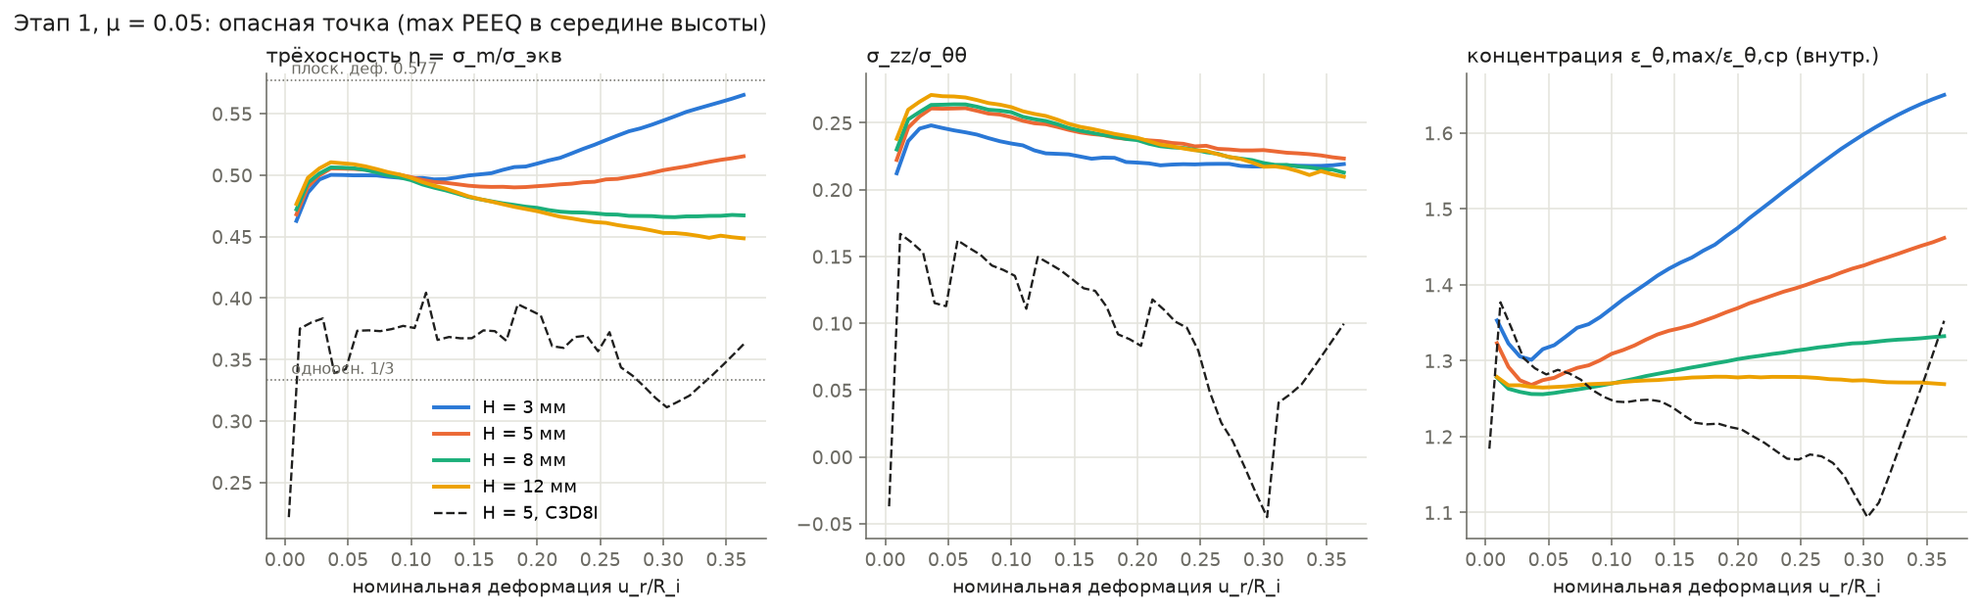
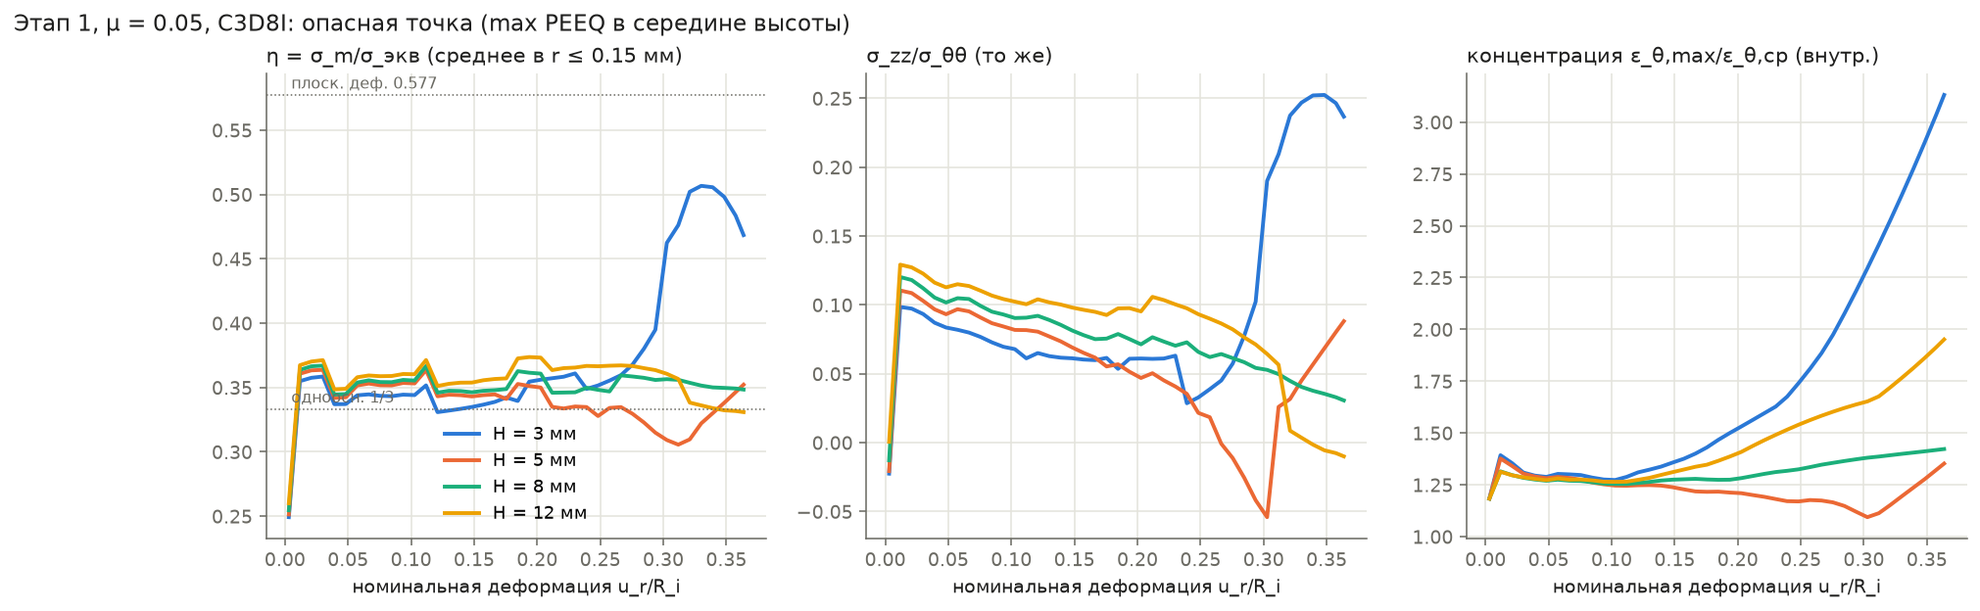
Этап 1: итоги по серии C3D8I — локализация, высота, трение, симметрия
До максимума силы (ε_ном около 0.09) H = 8 мм отличается от 12 мм не
больше чем на 3 % при всех мю; после него место локализации (середина
сегмента, зона у кромки, зазор) зависит от мю и H, сходимости по высоте
до 12 мм при мю <= 0.05 нет. Торцевой эффект — зона 1-2 мм. Трение по силе
не видно, но решает, где пойдёт шейка. Основные рисунки переведены на
C3D8I, добавлены stage1_localization.png и stage1_height.png.

Claude-Session: https://claude.ai/code/session_01W1VWBCerkHvUeBZsoP48xT

diff --git a/tools/compare_stage1.py b/tools/compare_stage1.py
@@ -10,11 +10,13 @@
                         (сплошные) и у торца (пунктир) при ε_ном = 0.10 и 0.20, μ = 0.05;
   stage1_hotspot.png  — опасная точка (max PEEQ в середине высоты): η, σ_zz/σ_θθ
                         и концентрация ε_max/ε_ср от ε_ном, μ = 0.05;
-  stage1_{profiles,hotspot}_C3D8I.png — то же для серии высот на C3D8I;
+  (три рисунка выше — по серии C3D8I; C3D4 с 6 тетраэдрами запирается);
+  stage1_localization.png — наибольшая ε_θ по всей внутренней поверхности
+                        от ε_ном: панели по μ, линии по H;
   stage1_height.png   — max по дуге ε_θ в каждом ряду z внутренней поверхности
                         (post/surfmap.json, tools/surfmap_stage1.py) по высоте;
   stage1_elements.png — H = 5, μ = 0.05 на C3D4, C3D8I и C3D20R (запирание);
-  stage1_tetmesh.png  — то же для сеток C3D4 (6 и 24 тетраэдра, шаг 0.1 и 0.05);
+  stage1_tetmesh.png  — то же для сеток C3D4 (6 и 24 тетраэдра на шестигранник);
 Таблица runs/stage1/summary.md — значения при ε_ном = 0.10 и 0.20 и
 отклонения от следующей по величине высоты (критерий 3 %).
 """
@@ -72,12 +74,12 @@ def style(ax):
     ax.tick_params(colors=MUTED)
 
 
-def fig_force(runs, out):
-    mus = sorted({r['mu'] for r in runs if r['elem'] == 'C3D4'})
+def fig_force(runs, out, elem='C3D8I'):
+    mus = sorted({r['mu'] for r in runs if r['elem'] == elem})
     fig, axs = plt.subplots(1, len(mus), figsize=(5.2 * len(mus), 4.4), sharey=True)
     axs = axs if len(mus) > 1 else [axs]
     for ax, mu in zip(axs, mus):
-        for r in sorted((r for r in runs if r['mu'] == mu and r['elem'] == 'C3D4'),
+        for r in sorted((r for r in runs if r['mu'] == mu and r['elem'] == elem),
                         key=lambda r: r['H']):
             x = [p['eps_nom'] for p in r['ts']]
             y = [p['Fz'] / r['H'] / 1000.0 for p in r['ts']]
@@ -87,7 +89,7 @@ def fig_force(runs, out):
         style(ax)
     axs[0].set_ylabel('сила на конусе / высота кольца, кН/мм', color=INK)
     axs[-1].legend(frameon=False, fontsize=9, loc='lower right')
-    fig.suptitle('Этап 1: сила на конусе F_z/H (без трения конус–сегмент)', fontsize=12,
+    fig.suptitle('Этап 1, %s: сила на конусе F_z/H (без трения конус–сегмент)' % elem, fontsize=12,
                  color=INK, x=0.01, ha='left')
     fig.savefig(out, dpi=140, bbox_inches='tight', facecolor='white')
 
@@ -235,6 +237,39 @@ def fig_height(runs, out, elem='C3D8I'):
     fig.tight_layout()
     fig.savefig(out, dpi=140, bbox_inches='tight', facecolor='white')
 
+def fig_localization(runs, out, elem='C3D8I'):
+    """Наибольшая ε_θ по всей внутренней поверхности от ε_ном: панели по μ, линии по H.
+
+    Пунктир — номинальная деформация ln(1 + ε_ном); вертикаль — максимум силы."""
+    have = [r for r in runs if r.get('surf') and r['elem'] == elem]
+    mus = sorted({r['mu'] for r in have})
+    if not mus:
+        return
+    fig, axs = plt.subplots(1, len(mus), figsize=(5.4 * len(mus), 4.6), sharey=True, squeeze=False)
+    for ax, mu in zip(axs[0], mus):
+        sel = sorted((r for r in have if r['mu'] == mu), key=lambda r: r['H'])
+        for r in sel:
+            fr = r['surf']['frames']
+            ax.plot([f['eps_nom'] for f in fr], [max(f['emax']) for f in fr],
+                    color=H_COL.get(r['H'], INK), lw=2, label='H = %g мм' % r['H'])
+        xx = [0.0, 0.364]
+        ax.plot(xx, [math.log(1 + x) for x in xx], color=MUTED, lw=1, ls='--')
+        if sel:
+            xf = sel[-1]['summ']['eps_nom_at_Fmax']
+            ax.axvline(xf, color=MUTED, lw=0.8, ls=':')
+            ax.text(xf + 0.004, 0.97, 'максимум силы', fontsize=8, color=MUTED, va='top',
+                    transform=ax.get_xaxis_transform())
+        ax.set_title('μ = %g' % mu, fontsize=11, color=INK, loc='left')
+        ax.set_xlabel('номинальная деформация u_r/R_i', color=INK)
+        style(ax)
+        ax.legend(frameon=False, fontsize=9, loc='center left')
+    axs[0][0].set_ylabel('max ε_θ по внутренней поверхности', color=INK)
+    fig.suptitle('Этап 1, %s: локализация — наибольшая окружная деформация '
+                 '(пунктир — равномерная раздача)' % elem, fontsize=12, color=INK, x=0.01, ha='left')
+    fig.tight_layout()
+    fig.savefig(out, dpi=140, bbox_inches='tight', facecolor='white')
+
+
 def table(runs, out):
     keys = [('epsmax_IN_Z0', 'ε_θ,max сер.'), ('epsmax_IN_ZTOP', 'ε_θ,max торец'),
             ('hs_z0_eta_avg', 'η'), ('hs_z0_szz_stt_avg', 'σzz/σθθ'), ('tmin_Z0', 't_min/t0'),
@@ -286,15 +321,13 @@ def main():
     print('runs:', ', '.join(r['name'] for r in runs))
     os.makedirs(a.figs, exist_ok=True)
     fig_force(runs, os.path.join(a.figs, 'stage1_force.png'))
-    fig_profiles(runs, os.path.join(a.figs, 'stage1_profiles.png'))
-    fig_hotspot(runs, os.path.join(a.figs, 'stage1_hotspot.png'))
-    if sum(r['elem'] == 'C3D8I' for r in runs) > 1:
-        fig_profiles(runs, os.path.join(a.figs, 'stage1_profiles_C3D8I.png'), elem='C3D8I')
-        fig_hotspot(runs, os.path.join(a.figs, 'stage1_hotspot_C3D8I.png'), elem='C3D8I')
+    fig_profiles(runs, os.path.join(a.figs, 'stage1_profiles.png'), elem='C3D8I')
+    fig_hotspot(runs, os.path.join(a.figs, 'stage1_hotspot.png'), elem='C3D8I')
+    fig_localization(runs, os.path.join(a.figs, 'stage1_localization.png'))
     fig_height(runs, os.path.join(a.figs, 'stage1_height.png'))
     fig_elements(runs, os.path.join(a.figs, 'stage1_elements.png'))
     fig_elements(runs, os.path.join(a.figs, 'stage1_tetmesh.png'),
-                 elems=('C3D4', 'C3D4-x24', 'C3D4-h0.05', 'C3D20R'),
+                 elems=('C3D4', 'C3D4-x24', 'C3D20R'),
                  title='сетки C3D4 против эталона C3D20R')
     tpath = a.table or os.path.join(a.runs, 'summary.md')
     table(runs, tpath)

diff --git a/notes/stage1_results.md b/notes/stage1_results.md
@@ -53,14 +53,118 @@ H = 5 мм, μ = 0.05:
   (2D, μ = 0): максимум деформации и минимум толщины при φ ≈ 15–16°
   от середины сегмента.
 
-## 2. Где деформация наибольшая
+## 2. Где деформация наибольшая и как она локализуется (C3D8I)
 
-(дописывается по серии C3D8I)
+Рисунки `figs/stage1_profiles.png`, `figs/stage1_localization.png`,
+`figs/stage1_height.png`.
+
+**До максимума силы.** Максимум силы на конусе — при ε_ном = 0.091–0.094
+(0.080–0.087 у низких колец при μ = 0.2), почти не зависит от H и μ. До него
+деформация распределена: наибольшая ε_θ на внутренней поверхности при
+φ ≈ 19–20°, то есть под сегментом в 0.15–0.25 мм от его кромки (кромка —
+21.46°), наибольшее утонение при φ ≈ 15°. Исключение — μ = 0 и H ≤ 5 мм:
+там деформация по дуге почти равномерна.
+
+**После максимума силы** деформация локализуется в одном из трёх мест,
+и какое из них «победит», зависит от μ, H и расстояния от торца:
+
+| место | φ | когда побеждает |
+|---|---|---|
+| середина сегмента | 0 | μ = 0 при H ≤ 5 мм (с ε_ном ≈ 0.15–0.20); у торцов высоких колец при μ ≤ 0.05 после ε_ном ≈ 0.25 |
+| под сегментом у кромки | 17–19° | μ = 0.05 при H = 5–8 мм; середина высоты при H = 12 мм |
+| над зазором | 22° | μ = 0.2; H = 3 мм при μ = 0.05 |
+
+Наибольшая ε_θ на внутренней поверхности при ε_ном = 0.30 (значение, φ,
+расстояние от торца):
+
+| μ | H = 3 | H = 5 | H = 8 | H = 12 |
+|---|---|---|---|---|
+| 0 | 0.70, 0°, сер. | 0.51, 0°, сер. | 0.36, 17°, торец | 0.47, 0°, 1.1 мм |
+| 0.05 | 0.59, 22°, сер. | 0.35, 17°, торец | 0.36, 18°, сер. | 0.45, 0°, 0.9 мм |
+| 0.2 | 1.14, 22°, сер. | 0.76, 22°, сер. | 0.54, 19°, сер. | 0.54, 19°, сер. |
+
+Почему так (качественно): при μ = 0 окружная сила одна и та же по всей дуге,
+а под сегментом к ней добавляется контактное давление, поэтому шейка идёт
+там. Трение снижает окружную силу к середине сегмента, и вперёд выходит
+зона у кромки, где кольцо изгибается через край сегмента. Изгиб у кромки
+в середине высоты высокого кольца идёт в условиях, близких к плоской
+деформации (σ_zz/σ_θθ = 0.06–0.10 против ≈ 0 у торца), и локализуется
+быстрее, чем у торца и в низком кольце.
+
+**Свободный торец.** У самого торца (последние 0.2–0.3 мм) ε_θ выше, чем
+в 1–2 мм от него, на 6–16 % при μ = 0.05 (C3D20R: 6–9 %) и на 15–25 %
+при μ = 0. Провал — в 0.8–1.3 мм от торца при μ = 0.05 и в 1.3–2.4 мм
+при μ = 0. Это и есть собственно торцевой краевой эффект; его ширина
+≈ 1–2 мм не зависит от H. В опытах [R2008] очаг разрушения — на торце.
 
 ## 3. Высота кольца
 
-(дописывается по серии C3D8I)
+Критерий (задан до расчёта): величины в середине высоты при H и при
+следующей высоте различаются меньше чем на 3 %. Отличие ε_θ,max
+в середине высоты (и η в опасной точке), C3D8I:
+
+| μ | H | ε_ном 0.05 | 0.10 | 0.15 | 0.20 |
+|---|---|---|---|---|---|
+| 0 | 5 → 8 | −5.5 % (η +0.4) | −7.8 % (−19.8) | +2.7 % (−11.1) | +22.0 % (+2.0) |
+| 0 | 8 → 12 | −1.8 % (−0.4) | −3.0 % (−0.7) | −7.9 % (−1.7) | −16.5 % (−4.5) |
+| 0.05 | 5 → 8 | +1.0 % (−0.7) | −0.5 % (−0.6) | −3.0 % (−0.9) | −5.4 % (−2.9) |
+| 0.05 | 8 → 12 | −0.3 % (−1.2) | −0.8 % (−1.3) | −2.9 % (−2.2) | −8.7 % (−3.3) |
+| 0.2 | 5 → 8 | +9.5 % (−2.7) | +10.5 % (−1.9) | +15.6 % (−0.5) | +17.2 % (+0.6) |
+| 0.2 | 8 → 12 | +0.5 % (−2.6) | +1.0 % (−2.4) | +1.8 % (−1.0) | +1.9 % (−4.4) |
+
+- **До максимума силы (ε_ном ≤ 0.10) H = 8 мм удовлетворяет критерию при
+  всех μ** (наибольшее отличие от H = 12 — 3.0 % при μ = 0). H = 5 мм — нет
+  (−7.8 % при μ = 0, +10.5 % при μ = 0.2).
+- **После максимума силы при μ ≤ 0.05 сходимости по высоте до 12 мм нет**:
+  при ε_ном = 0.20 отличие 8 → 12 мм — 9–17 %. Причина — разные места
+  локализации (п. 2): в середине высоты кольца 12 мм шейка у кромки
+  сегмента развивается быстрее. При μ = 0.2 локализация над зазором
+  с самого начала, и 8 и 12 мм совпадают до ε_ном = 0.20.
+- Проверка, выходит ли картина после максимума силы на постоянную при ещё
+  бо́льшей высоте: H = 16 и 20 мм, μ = 0 и 0.05 (считается).
 
 ## 4. Трение
 
-(дописывается по серии C3D8I)
+- Сила на конусе от трения почти не зависит: F_z/H при ε_ном = 0.10 —
+  413 Н/мм (μ = 0), 417 (0.05), 422–435 (0.2). Трение по силе
+  не определить.
+- Трение решает, где и когда пойдёт локализация (п. 2), и меняет
+  трёхосность в опасной точке: η при ε_ном = 0.10 — 0.27–0.34 (μ = 0),
+  0.35–0.36 (0.05), 0.39–0.41 (0.2).
+- При μ = 0.2 деформация над зазором уже при ε_ном = 0.10 в 1.7–2 раза
+  больше номинальной; такое испытание меряет не материал, а трение.
+- **Вывод для испытания: смазка сегмент–кольцо обязательна, а μ надо
+  контролировать.** По силе этого не сделать; можно по распределению
+  деформации или толщины кольца по дуге после испытания (сетка рисок,
+  DIC на наружной поверхности, срез и замер толщины): отношение
+  деформации у кромки сегмента к деформации над серединой сегмента
+  однозначно связано с μ (п. 2).
+
+## 5. Плоскости симметрии
+
+До максимума силы сектор с симметрией по φ = 0, φ = 22.5° и z = 0 точен.
+После него он допускает только симметричные формы локализации: шейку
+ровно на плоскости φ = 0 (середина сегмента) и вздутие ровно в середине
+высоты, а наклонные полосы через эти плоскости (в опытах [R2008] срез
+идёт под 45°) запрещает. Поэтому результаты этапа 1 после
+ε_ном ≈ 0.10–0.15 — качественные: они показывают, где начнётся
+локализация, но не как она пойдёт дальше.
+
+## 6. Что из этого следует
+
+1. **Сетка этапа 2** — C3D4 x24 с шагом 0.1 мм (п. 1). C3D4 с 6 тетраэдрами
+   для разрушения непригоден: он не локализуется и ставит очаг не туда.
+2. **Расчётная область этапа 2** — без плоскостей симметрии через места
+   локализации: полная высота и как минимум один полный период сегмента
+   (φ от −22.5° до 22.5°, плоскости симметрии только в серединах зазоров).
+   Для H = 8 мм это ≈ 0.68 млн тетраэдров и ≈ 150 тыс. узлов — в 6 раз
+   больше сектора этапа 1; оценка времени — часы на расчёт без повреждения.
+3. **Ход оправки.** Опыты на Zry-2 (H ≈ 9–10 мм) рвались при ε_ном = 0.24–0.33;
+   для Э635 ход надо брать с запасом — до ε_ном ≈ 0.45 (u_r ≈ 2.5 мм).
+4. **Путь нагружения в опасной точке** (для ε_f(η), η — среднее в радиусе
+   0.15 мм): при μ = 0.05 η = 0.31–0.37 на всём пути до ε_ном = 0.35
+   (C3D8I, x24 и C3D20R согласны); рост до 0.45–0.53 — только в шейке над
+   серединой сегмента при μ = 0, H = 5 мм и над зазором при μ = 0.2.
+   Значит, для этапа 2 важнее всего точка ε_f(η ≈ 1/3) — одноосное
+   растяжение.
+5. **Высота** — окончательно после H = 16 и 20 мм (п. 3).

diff --git a/runs/stage1/summary.md b/runs/stage1/summary.md
@@ -1,8 +1,9 @@
 # Этап 1: сводка серии
 
 ε_ном = u_r/R_i. Величины «сер.» — внутренняя поверхность в середине высоты,
-«торец» — у свободного торца; η, σzz/σθθ — опасная точка (max PEEQ, z = 0).
-Δ — относительное отличие от следующей по величине высоты при том же μ.
+«торец» — у свободного торца; η, σzz/σθθ — опасная точка (max PEEQ, z = 0),
+средние по элементам в радиусе 0.15 мм.
+Δ — относительное отличие от следующей по величине высоты при том же μ и типе элемента.
 
 | расчёт | ε_ном при F_max | F_z,max, Н | итог |
 |---|---|---|---|
@@ -18,40 +19,79 @@
 | H5_mu0.2 | 0.091 | 2146 | rc=0, 349 с, до ε_ном = 0.364 |
 | H8_mu0.2 | 0.091 | 3459 | rc=0, 709 с, до ε_ном = 0.364 |
 | H12_mu0.2 | 0.091 | 5238 | rc=0, 1098 с, до ε_ном = 0.364 |
+| H5_mu0.05_C3D20R_s2s | 0.100 | 2085 | rc=0, 4549 с, до ε_ном = 0.364 |
+| H5_mu0.05_x24 | 0.094 | 2085 | rc=0, 2110 с, до ε_ном = 0.364 |
+| H3_mu0_C3D8I | 0.091 | 1237 | rc=0, 263 с, до ε_ном = 0.364 |
+| H5_mu0_C3D8I | 0.091 | 2064 | rc=0, 466 с, до ε_ном = 0.364 |
+| H8_mu0_C3D8I | 0.091 | 3303 | rc=0, 858 с, до ε_ном = 0.364 |
+| H12_mu0_C3D8I | 0.091 | 4955 | rc=0, 1450 с, до ε_ном = 0.364 |
+| H3_mu0.05_C3D8I | 0.094 | 1250 | rc=0, 263 с, до ε_ном = 0.364 |
 | H5_mu0.05_C3D8I | 0.094 | 2085 | rc=0, 547 с, до ε_ном = 0.364 |
+| H8_mu0.05_C3D8I | 0.094 | 3342 | rc=0, 1171 с, до ε_ном = 0.364 |
+| H12_mu0.05_C3D8I | 0.094 | 5026 | rc=0, 2050 с, до ε_ном = 0.364 |
+| H3_mu0.2_C3D8I | 0.080 | 1271 | rc=0, 296 с, до ε_ном = 0.364 |
+| H5_mu0.2_C3D8I | 0.087 | 2138 | rc=0, 608 с, до ε_ном = 0.364 |
+| H8_mu0.2_C3D8I | 0.094 | 3451 | rc=0, 1253 с, до ε_ном = 0.364 |
+| H12_mu0.2_C3D8I | 0.094 | 5227 | rc=0, 2082 с, до ε_ном = 0.364 |
 
 ## ε_ном = 0.10
 
 | расчёт | ε_θ,max сер. | ε_θ,max торец | η | σzz/σθθ | t_min/t0 | F_z, Н | Δ ε_max сер. | Δ η | Δ F_z/H |
 |---|---|---|---|---|---|---|---|---|---|
-| H3_mu0 | 0.1156 | 0.1227 | 0.4855 | 0.2249 | 0.9506 | 1243 | +2.5 % | -0.7 % | -0.0 % |
-| H5_mu0 | 0.1127 | 0.1243 | 0.4890 | 0.2411 | 0.9526 | 2072 | +1.0 % | +0.5 % | -0.0 % |
-| H8_mu0 | 0.1116 | 0.1265 | 0.4864 | 0.2398 | 0.9536 | 3315 | -0.7 % | +0.2 % | -0.0 % |
-| H12_mu0 | 0.1124 | 0.1249 | 0.4856 | 0.2369 | 0.9532 | 4973 |  |  |  |
-| H3_mu0.05 | 0.1274 | 0.1323 | 0.4976 | 0.2345 | 0.9436 | 1253 | +4.6 % | -0.2 % | -0.2 % |
-| H5_mu0.05 | 0.1218 | 0.1279 | 0.4983 | 0.2543 | 0.9466 | 2091 | +3.1 % | +0.5 % | -0.2 % |
-| H8_mu0.05 | 0.1181 | 0.1275 | 0.4959 | 0.2580 | 0.9483 | 3352 | -0.0 % | -0.4 % | -0.3 % |
-| H12_mu0.05 | 0.1182 | 0.1256 | 0.4977 | 0.2617 | 0.9477 | 5042 |  |  |  |
-| H3_mu0.2 | 0.1627 | 0.1625 | 0.5396 | 0.2663 | 0.9218 | 1278 | +7.8 % | +2.8 % | -0.6 % |
-| H5_mu0.2 | 0.1509 | 0.1392 | 0.5249 | 0.2907 | 0.9261 | 2145 | +6.5 % | +0.4 % | -0.8 % |
-| H8_mu0.2 | 0.1417 | 0.1308 | 0.5226 | 0.3069 | 0.9286 | 3458 | +0.6 % | -2.8 % | -1.0 % |
-| H12_mu0.2 | 0.1409 | 0.1274 | 0.5375 | 0.3325 | 0.9257 | 5236 |  |  |  |
-| H5_mu0.05_C3D8I | 0.1160 | 0.1248 | 0.3762 | 0.1369 | 0.9478 | 2085 | | | |
+| H3_mu0 | 0.1156 | 0.1227 | 0.4281 | 0.1666 | 0.9506 | 1243 | +2.5 % | -3.1 % | -0.0 % |
+| H5_mu0 | 0.1127 | 0.1243 | 0.4419 | 0.1886 | 0.9526 | 2072 | +1.0 % | +0.3 % | -0.0 % |
+| H8_mu0 | 0.1116 | 0.1265 | 0.4407 | 0.1875 | 0.9536 | 3315 | -0.7 % | +0.4 % | -0.0 % |
+| H12_mu0 | 0.1124 | 0.1249 | 0.4389 | 0.1836 | 0.9532 | 4973 |  |  |  |
+| H3_mu0.05 | 0.1274 | 0.1323 | 0.4348 | 0.1754 | 0.9436 | 1253 | +4.6 % | -3.8 % | -0.2 % |
+| H5_mu0.05 | 0.1218 | 0.1279 | 0.4522 | 0.2053 | 0.9466 | 2091 | +3.1 % | -0.4 % | -0.2 % |
+| H8_mu0.05 | 0.1181 | 0.1275 | 0.4540 | 0.2114 | 0.9483 | 3352 | -0.0 % | -0.6 % | -0.3 % |
+| H12_mu0.05 | 0.1182 | 0.1256 | 0.4566 | 0.2159 | 0.9477 | 5042 |  |  |  |
+| H3_mu0.2 | 0.1627 | 0.1625 | 0.4536 | 0.1974 | 0.9218 | 1278 | +7.8 % | -5.4 % | -0.6 % |
+| H5_mu0.2 | 0.1509 | 0.1392 | 0.4797 | 0.2486 | 0.9261 | 2145 | +6.5 % | -2.9 % | -0.8 % |
+| H8_mu0.2 | 0.1417 | 0.1308 | 0.4939 | 0.2786 | 0.9286 | 3458 | +0.6 % | -2.7 % | -1.0 % |
+| H12_mu0.2 | 0.1409 | 0.1274 | 0.5078 | 0.3056 | 0.9257 | 5236 |  |  |  |
+| H5_mu0.05_C3D20R_s2s | 0.1151 | 0.1169 | 0.3530 | 0.0840 | 0.9488 | 2085 |  |  |  |
+| H5_mu0.05_x24 | 0.1146 | 0.1210 | 0.3612 | 0.0921 | 0.9481 | 2085 |  |  |  |
+| H3_mu0_C3D8I | 0.1041 | 0.1104 | 0.2725 | -0.0057 | 0.9479 | 1237 | +6.7 % | -0.5 % | -0.1 % |
+| H5_mu0_C3D8I | 0.0976 | 0.1217 | 0.2738 | -0.0150 | 0.9510 | 2064 | -7.8 % | -19.8 % | -0.0 % |
+| H8_mu0_C3D8I | 0.1058 | 0.1186 | 0.3413 | 0.0570 | 0.9511 | 3303 | -3.0 % | -0.7 % | -0.0 % |
+| H12_mu0_C3D8I | 0.1091 | 0.1187 | 0.3438 | 0.0637 | 0.9501 | 4955 |  |  |  |
+| H3_mu0.05_C3D8I | 0.1184 | 0.1316 | 0.3442 | 0.0684 | 0.9470 | 1250 | +2.1 % | -2.6 % | -0.1 % |
+| H5_mu0.05_C3D8I | 0.1160 | 0.1248 | 0.3533 | 0.0826 | 0.9478 | 2085 | -0.5 % | -0.6 % | -0.2 % |
+| H8_mu0.05_C3D8I | 0.1166 | 0.1194 | 0.3555 | 0.0912 | 0.9469 | 3342 | -0.8 % | -1.3 % | -0.2 % |
+| H12_mu0.05_C3D8I | 0.1176 | 0.1205 | 0.3603 | 0.1029 | 0.9457 | 5025 |  |  |  |
+| H3_mu0.2_C3D8I | 0.2021 | 0.1889 | 0.3865 | 0.1295 | 0.9175 | 1266 | +9.5 % | -2.5 % | -1.2 % |
+| H5_mu0.2_C3D8I | 0.1846 | 0.1378 | 0.3964 | 0.1640 | 0.9225 | 2136 | +10.5 % | -1.9 % | -0.9 % |
+| H8_mu0.2_C3D8I | 0.1671 | 0.1217 | 0.4039 | 0.1909 | 0.9275 | 3450 | +1.0 % | -2.4 % | -1.0 % |
+| H12_mu0.2_C3D8I | 0.1655 | 0.1247 | 0.4139 | 0.2197 | 0.9261 | 5225 |  |  |  |
 
 ## ε_ном = 0.20
 
 | расчёт | ε_θ,max сер. | ε_θ,max торец | η | σzz/σθθ | t_min/t0 | F_z, Н | Δ ε_max сер. | Δ η | Δ F_z/H |
 |---|---|---|---|---|---|---|---|---|---|
-| H3_mu0 | 0.2380 | 0.2475 | 0.4769 | 0.2003 | 0.8907 | 1214 | +4.5 % | +0.6 % | -0.0 % |
-| H5_mu0 | 0.2277 | 0.2413 | 0.4742 | 0.2218 | 0.8969 | 2023 | +3.3 % | +2.5 % | -0.0 % |
-| H8_mu0 | 0.2203 | 0.2449 | 0.4628 | 0.2204 | 0.9015 | 3238 | +1.4 % | +0.6 % | -0.0 % |
-| H12_mu0 | 0.2173 | 0.2465 | 0.4600 | 0.2174 | 0.9037 | 4858 |  |  |  |
-| H3_mu0.05 | 0.2628 | 0.2723 | 0.5094 | 0.2202 | 0.8757 | 1220 | +7.7 % | +3.7 % | -0.3 % |
-| H5_mu0.05 | 0.2439 | 0.2515 | 0.4910 | 0.2377 | 0.8855 | 2040 | +5.2 % | +3.7 % | -0.2 % |
-| H8_mu0.05 | 0.2319 | 0.2484 | 0.4734 | 0.2371 | 0.8916 | 3271 | +1.9 % | +0.6 % | -0.2 % |
-| H12_mu0.05 | 0.2276 | 0.2478 | 0.4707 | 0.2388 | 0.8932 | 4919 |  |  |  |
-| H3_mu0.2 | 0.3232 | 0.3386 | 0.6033 | 0.2733 | 0.8387 | 1232 | +10.2 % | +9.5 % | -1.3 % |
-| H5_mu0.2 | 0.2934 | 0.2830 | 0.5510 | 0.2882 | 0.8498 | 2080 | +8.3 % | +7.5 % | -1.0 % |
-| H8_mu0.2 | 0.2708 | 0.2597 | 0.5126 | 0.2880 | 0.8576 | 3360 | +2.0 % | +2.1 % | -1.0 % |
-| H12_mu0.2 | 0.2656 | 0.2518 | 0.5020 | 0.2995 | 0.8548 | 5090 |  |  |  |
-| H5_mu0.05_C3D8I | 0.2155 | 0.2286 | 0.3873 | 0.0846 | 0.9030 | 2034 | | | |
+| H3_mu0 | 0.2380 | 0.2475 | 0.4083 | 0.1420 | 0.8907 | 1214 | +4.5 % | -6.4 % | -0.0 % |
+| H5_mu0 | 0.2277 | 0.2413 | 0.4364 | 0.1831 | 0.8969 | 2023 | +3.3 % | -0.2 % | -0.0 % |
+| H8_mu0 | 0.2203 | 0.2449 | 0.4374 | 0.1900 | 0.9015 | 3238 | +1.4 % | +0.6 % | -0.0 % |
+| H12_mu0 | 0.2173 | 0.2465 | 0.4348 | 0.1862 | 0.9037 | 4858 |  |  |  |
+| H3_mu0.05 | 0.2628 | 0.2723 | 0.4156 | 0.1468 | 0.8757 | 1220 | +7.7 % | -6.8 % | -0.3 % |
+| H5_mu0.05 | 0.2439 | 0.2515 | 0.4460 | 0.1963 | 0.8855 | 2040 | +5.2 % | -0.6 % | -0.2 % |
+| H8_mu0.05 | 0.2319 | 0.2484 | 0.4485 | 0.2092 | 0.8916 | 3271 | +1.9 % | -0.2 % | -0.2 % |
+| H12_mu0.05 | 0.2276 | 0.2478 | 0.4494 | 0.2128 | 0.8932 | 4919 |  |  |  |
+| H3_mu0.2 | 0.3232 | 0.3386 | 0.4337 | 0.1565 | 0.8387 | 1232 | +10.2 % | -8.7 % | -1.3 % |
+| H5_mu0.2 | 0.2934 | 0.2830 | 0.4751 | 0.2319 | 0.8498 | 2080 | +8.3 % | -1.0 % | -1.0 % |
+| H8_mu0.2 | 0.2708 | 0.2597 | 0.4798 | 0.2599 | 0.8576 | 3360 | +2.0 % | -1.4 % | -1.0 % |
+| H12_mu0.2 | 0.2656 | 0.2518 | 0.4867 | 0.2835 | 0.8548 | 5090 |  |  |  |
+| H5_mu0.05_C3D20R_s2s | 0.2130 | 0.2214 | 0.3296 | 0.0529 | 0.9053 | 2036 |  |  |  |
+| H5_mu0.05_x24 | 0.2104 | 0.2212 | 0.3525 | 0.0561 | 0.9042 | 2035 |  |  |  |
+| H3_mu0_C3D8I | 0.3158 | 0.2373 | 0.3859 | 0.1404 | 0.8484 | 1175 | +29.8 % | +16.8 % | -2.4 % |
+| H5_mu0_C3D8I | 0.2433 | 0.2254 | 0.3303 | 0.0763 | 0.8810 | 2006 | +22.0 % | +2.0 % | -0.4 % |
+| H8_mu0_C3D8I | 0.1994 | 0.2174 | 0.3239 | 0.0368 | 0.9079 | 3224 | -16.5 % | -4.5 % | +0.2 % |
+| H12_mu0_C3D8I | 0.2388 | 0.1992 | 0.3392 | 0.0651 | 0.8952 | 4825 |  |  |  |
+| H3_mu0.05_C3D8I | 0.2710 | 0.2683 | 0.3556 | 0.0610 | 0.8843 | 1212 | +25.7 % | +1.5 % | -0.7 % |
+| H5_mu0.05_C3D8I | 0.2155 | 0.2286 | 0.3503 | 0.0483 | 0.9030 | 2034 | -5.4 % | -2.9 % | -0.1 % |
+| H8_mu0.05_C3D8I | 0.2279 | 0.2076 | 0.3610 | 0.0725 | 0.8965 | 3260 | -8.7 % | -3.3 % | -0.0 % |
+| H12_mu0.05_C3D8I | 0.2496 | 0.2025 | 0.3733 | 0.0960 | 0.8867 | 4890 |  |  |  |
+| H3_mu0.2_C3D8I | 0.4874 | 0.3946 | 0.4369 | 0.1699 | 0.7662 | 1158 | +24.1 % | +3.4 % | -5.5 % |
+| H5_mu0.2_C3D8I | 0.3927 | 0.2554 | 0.4226 | 0.1673 | 0.8279 | 2044 | +17.2 % | +0.6 % | -2.2 % |
+| H8_mu0.2_C3D8I | 0.3349 | 0.2128 | 0.4203 | 0.1872 | 0.8497 | 3344 | +1.9 % | -4.4 % | -1.0 % |
+| H12_mu0.2_C3D8I | 0.3287 | 0.2043 | 0.4396 | 0.2206 | 0.8483 | 5068 |  |  |  |
